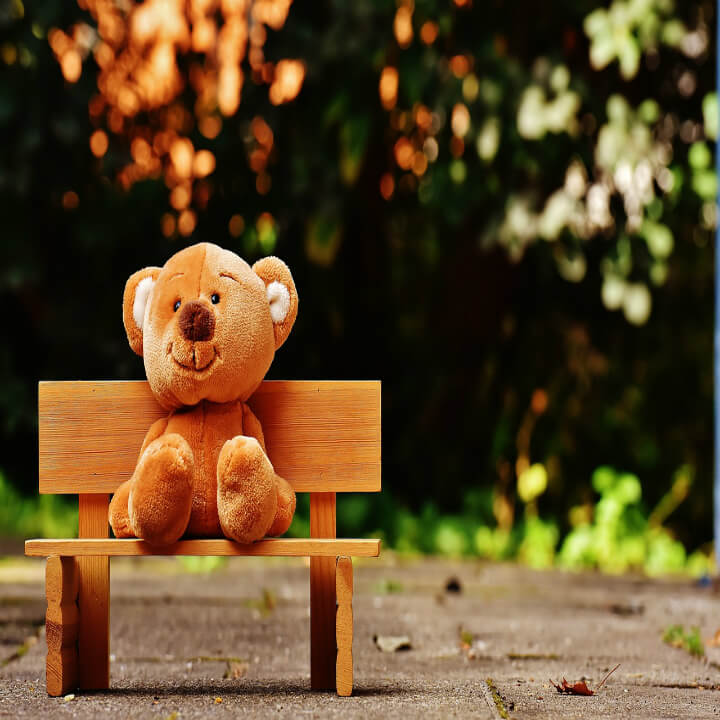
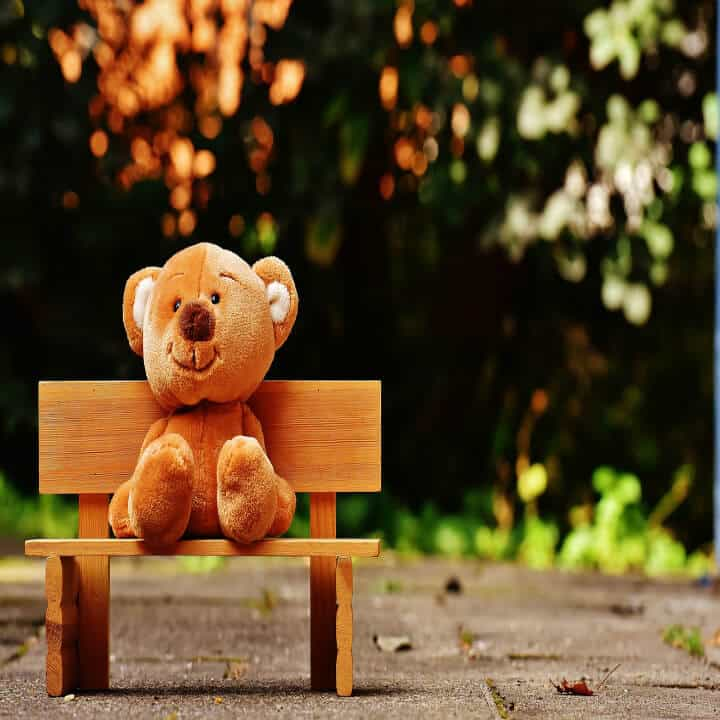
image compression, page title

diff --git a/index.html b/index.html
@@ -8,11 +8,10 @@
     <link rel="stylesheet" type="text/css" href="css/templatemo-style.css">
     <link rel="stylesheet" href="http://maxcdn.bootstrapcdn.com/font-awesome/4.2.0/css/font-awesome.min.css" type="text/css">
 
-<!--
-Puzzle Template
-http://www.templatemo.com/tm-477-puzzle
--->
-    <title>Puzzle by templatemo</title>
+<!-- Puzzle Templatehttp://www.templatemo.com/tm-477-puzzle -->
+
+<title>Haedicke Counseling </title>
+
 </head>
 
 <body>
@@ -107,7 +106,7 @@ http://www.templatemo.com/tm-477-puzzle
 
    <section class="col-md-12 content" id="contact">
        <div class="col-lg-6 col-md-6 col-md-push-6 content-item">
-           <img src="images/4.jpg" alt="Image" class="tm-image">
+           <img src="images/contact.jpg" alt="Image" class="tm-image">
        </div>
        <div class="col-lg-6 col-md-6 col-md-pull-6 content-item background flexbox">
            <h2 class="section-title">Contact Information</h2>
